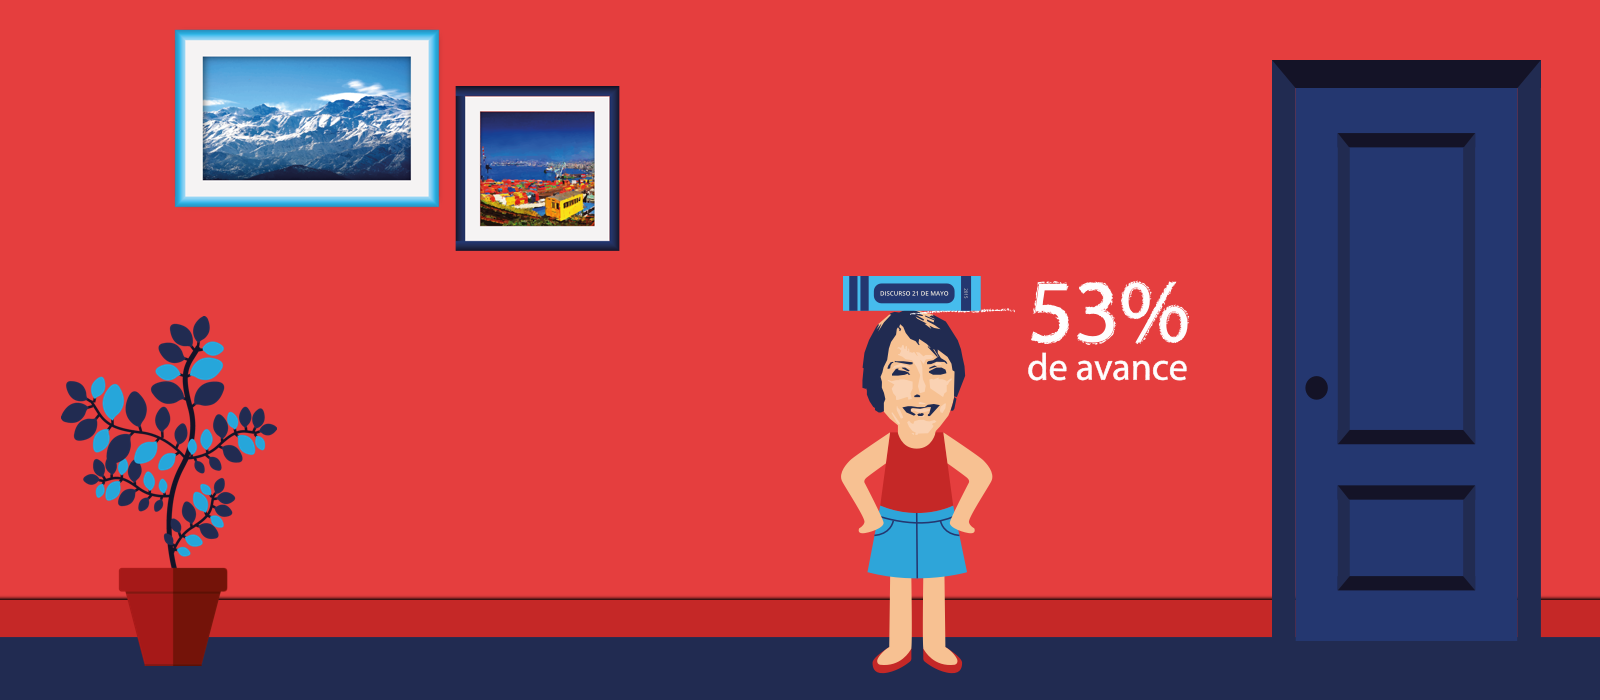
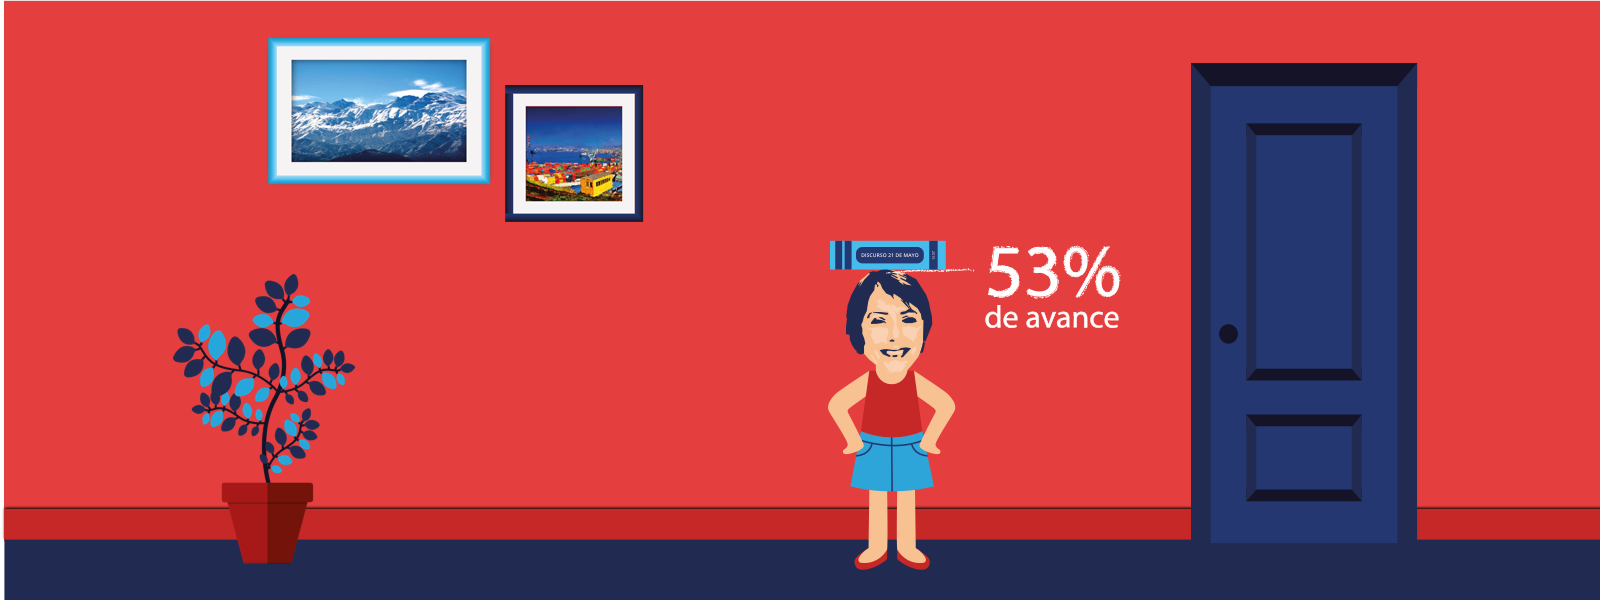
corrección imagen header

diff --git a/_sass/_base.scss b/_sass/_base.scss
@@ -250,9 +250,9 @@ small {
 
 #welcome {
     background-position: center;
-    background-position-y: -240px;
+    /*background-position-y: -240px;*/
     background-repeat: no-repeat;
-    max-height: 780px;
+    min-height: 780px;
     background-image: url(../img/header.png);
 }
 
